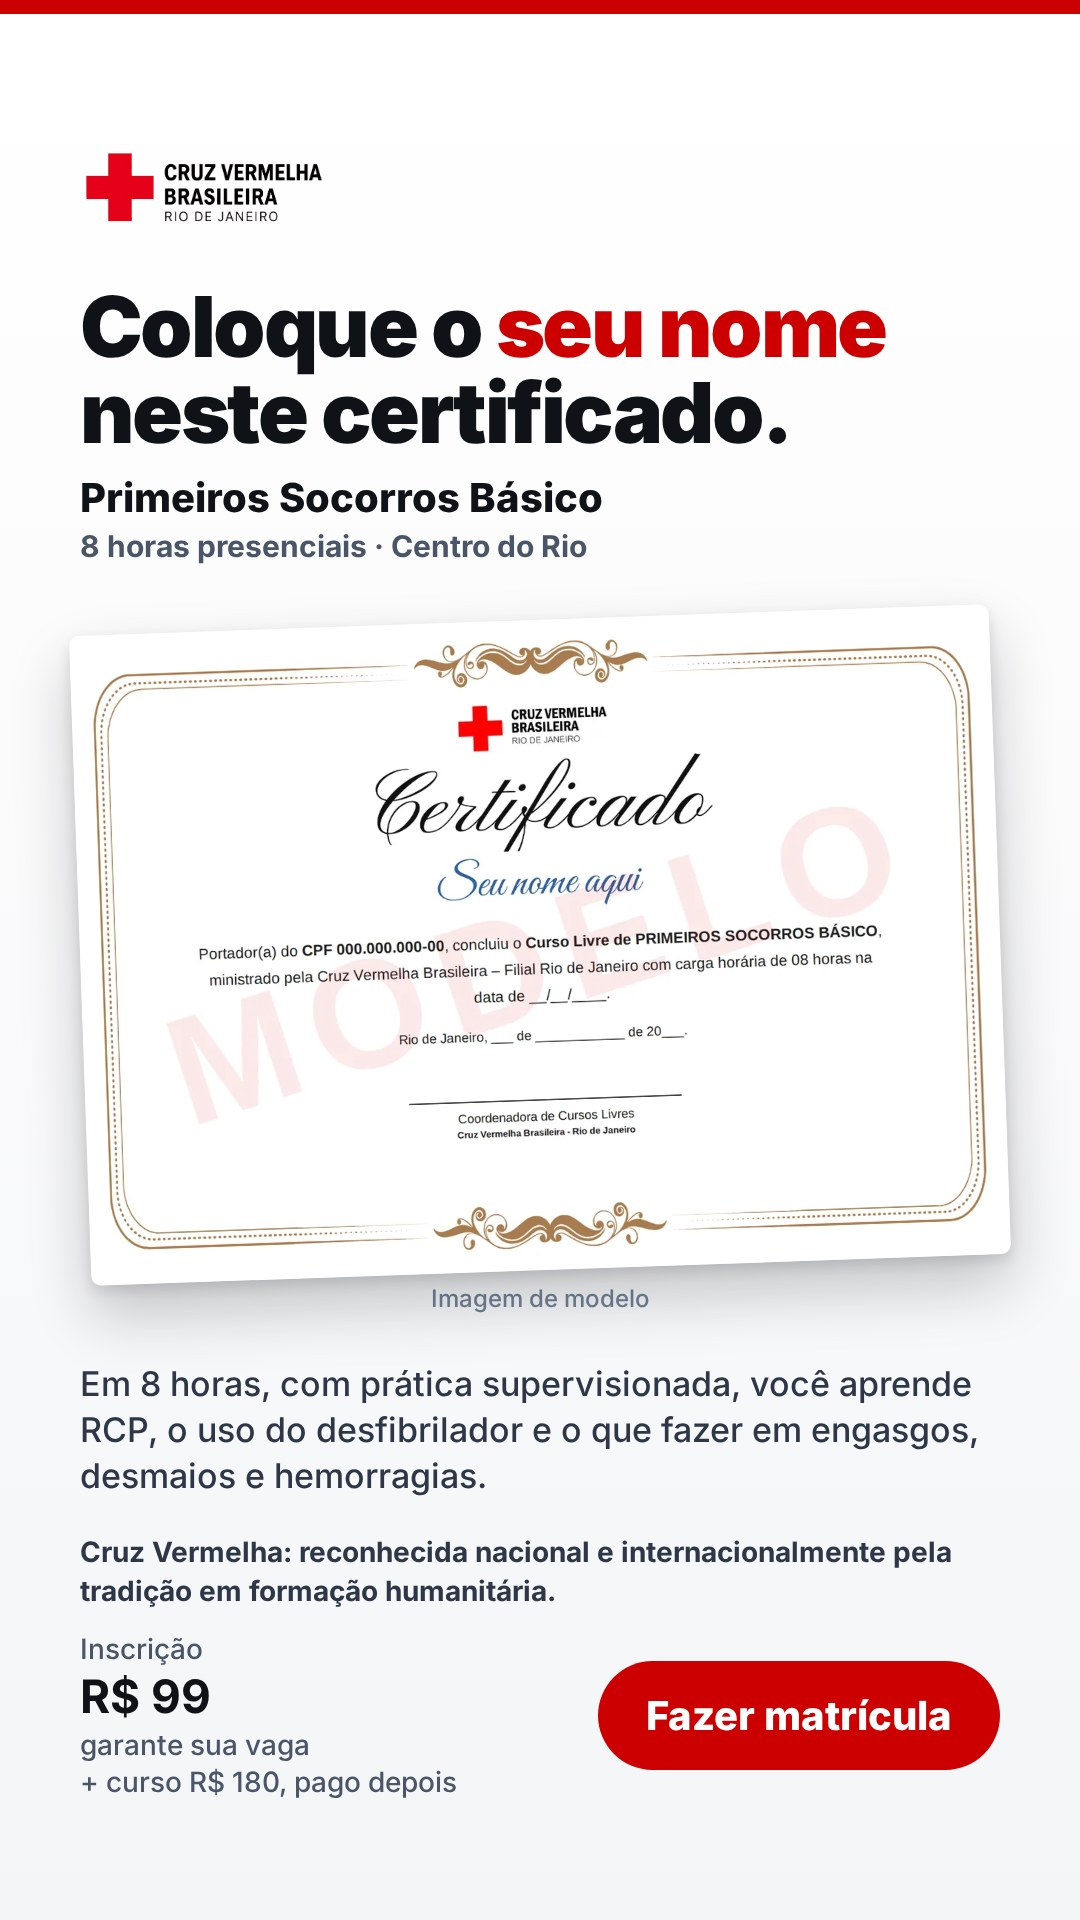
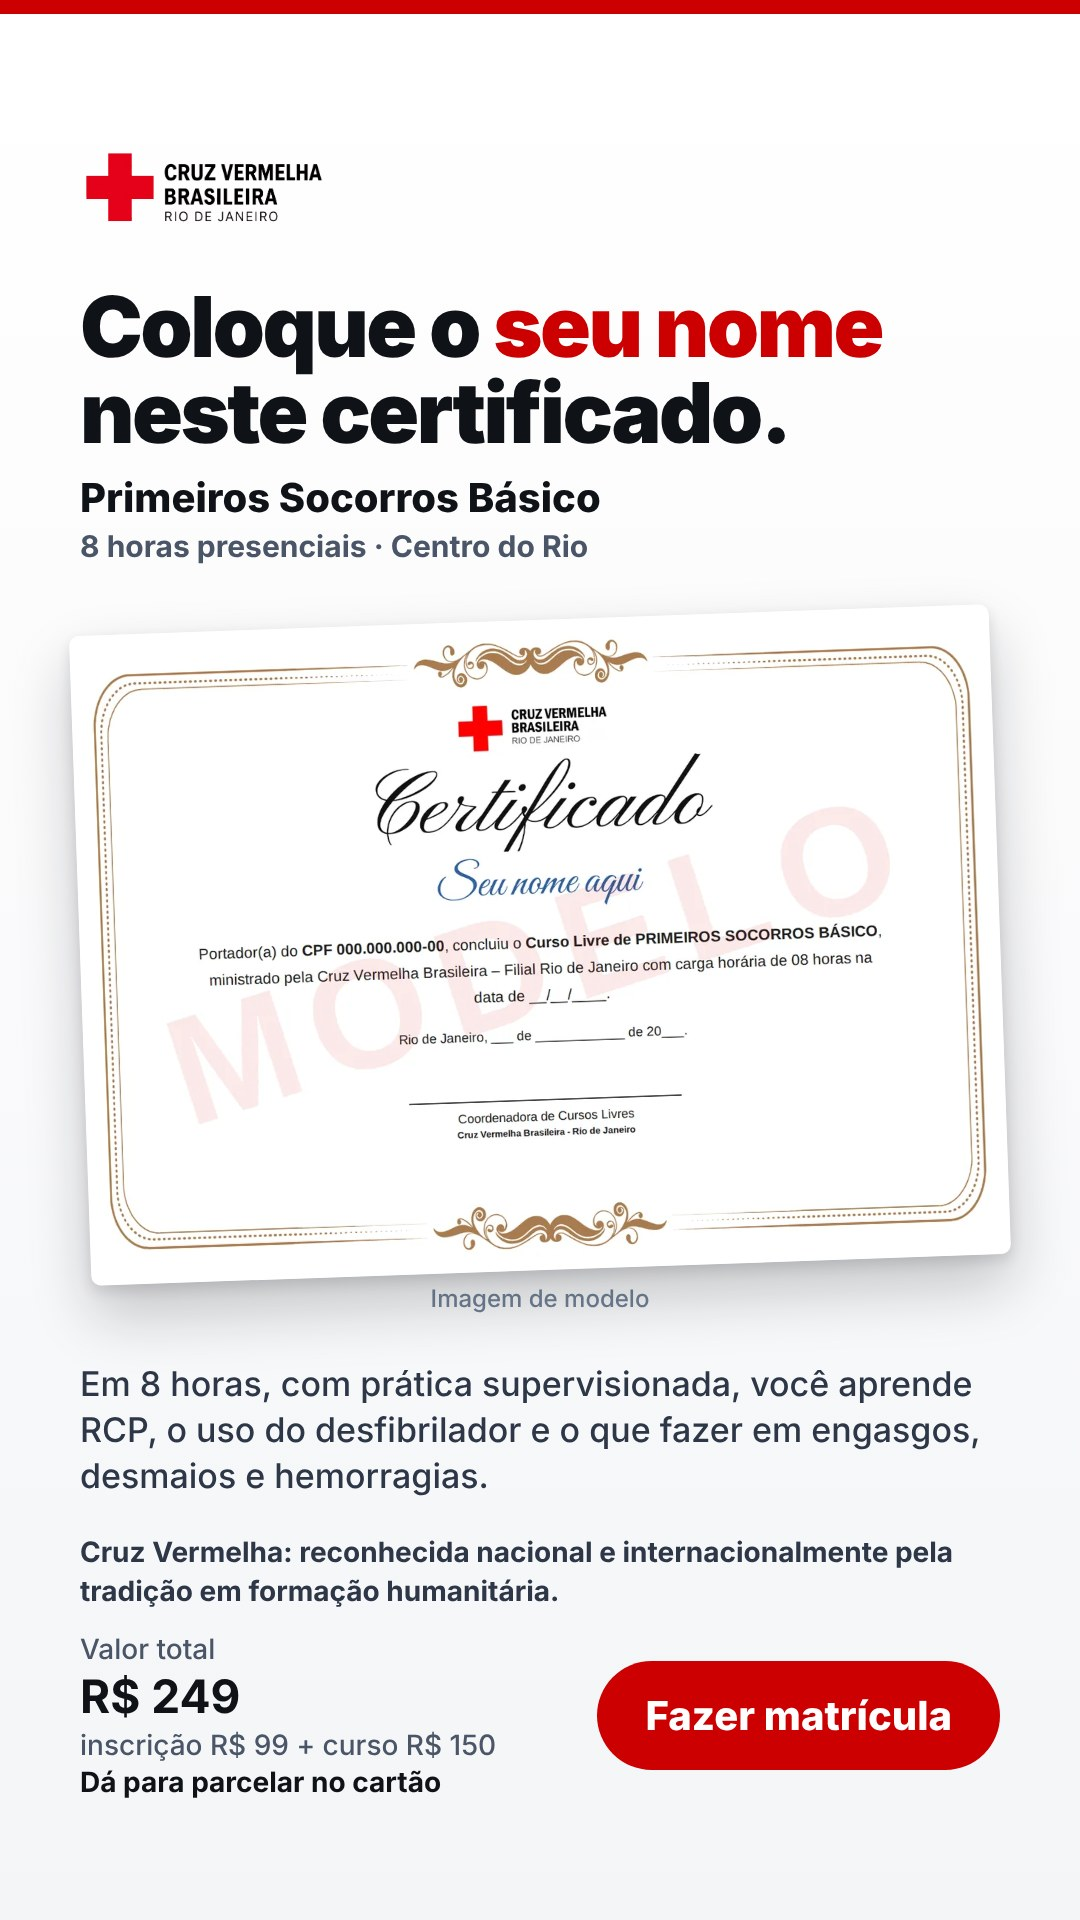
Criativos: valor total com parcelamento e marca oficial no uniforme
- Criativos do certificado: o bloco de preço mostra o total (R$ 249), a conta
  e "Dá para parcelar no cartão".
- Post de Curativos (28/11): linha do valor total com parcelamento na arte e
  na legenda; na foto, os emblemas redondos das camisas dão lugar à marca
  oficial (retocar_uniforme.py).

Claude-Session: https://claude.ai/code/session_018phLKcwd6cnmyNAojLSjcG

diff --git a/docs/criativos/feed-curativos-28-11/feed.html b/docs/criativos/feed-curativos-28-11/feed.html
@@ -11,19 +11,19 @@ body{font-family:Inter,Arial,sans-serif;background:#111}
 .foto::after{content:"";position:absolute;inset:0;background:linear-gradient(180deg,rgba(21,21,21,0) 42%,#151515 100%)}
 .logo{background:#fff;display:inline-block;border-radius:0 0 22px 0;position:absolute;top:0;left:0;z-index:3;padding:30px 48px 30px 64px}
 .logo img{display:block;height:76px}
-.txt{position:relative;z-index:2;padding:470px 64px 0}
+.txt{position:relative;z-index:2;padding:436px 64px 0}
 .tag{display:inline-block;background:var(--red);font:700 24px/1 Inter;letter-spacing:.32em;padding:.55em .8em .55em 1em;border-radius:6px;text-transform:uppercase}
 h1{font-family:"Barlow Condensed";font-weight:800;font-size:104px;line-height:.9;text-transform:uppercase;letter-spacing:-.005em;margin-top:22px}
 h1 span{display:block;color:var(--red)}
 .sub{font-size:32px;line-height:1.3;color:#e9e9e9;margin-top:22px;max-width:900px}
 .sub b{color:#fff}
-.det{list-style:none;display:grid;gap:26px;margin-top:44px}
+.det{list-style:none;display:grid;gap:18px;margin-top:34px}
 .det li{display:flex;align-items:center}
 .ic{background:var(--red);border-radius:10px;display:grid;place-items:center;flex:none;width:76px;height:76px;margin-right:24px}
 .ic svg{width:40px;height:40px;fill:none;stroke:#fff;stroke-width:2;stroke-linecap:round;stroke-linejoin:round}
 .det b{display:block;font-family:"Barlow Condensed";font-weight:700;text-transform:uppercase;line-height:1;font-size:46px}
 .det small{display:block;letter-spacing:.14em;text-transform:uppercase;color:#cfcfcf;font-weight:600;font-size:20px;margin-top:6px}
-.selo{position:absolute;right:64px;bottom:98px;z-index:3;background:#fff;color:var(--ink);border-radius:22px;padding:24px 30px;text-align:center}
+.selo{position:absolute;right:64px;bottom:64px;z-index:3;background:#fff;color:var(--ink);border-radius:22px;padding:24px 30px;text-align:center}
 .selo small{display:block;font-weight:700;font-size:19px;letter-spacing:.14em;text-transform:uppercase;color:#555}
 .selo b{display:block;font-family:"Barlow Condensed";font-weight:800;font-size:66px;line-height:1;text-transform:uppercase;margin-top:6px}
 .selo b i{font-style:normal;color:var(--red)}
@@ -41,6 +41,7 @@ h1 span{display:block;color:var(--red)}
       <li><span class="ic"><svg viewBox="0 0 24 24"><rect x="3" y="5" width="18" height="16" rx="2"/><path d="M3 10h18M8 3v4M16 3v4"/></svg></span><span><b>28 de novembro</b><small>Sábado · 9h às 17h</small></span></li>
       <li><span class="ic"><svg viewBox="0 0 24 24"><path d="M12 21s-7-6.2-7-11.5a7 7 0 0 1 14 0C19 14.8 12 21 12 21z"/><circle cx="12" cy="9.5" r="2.5"/></svg></span><span><b>Centro do Rio</b><small>Palácio da Cruz Vermelha</small></span></li>
       <li><span class="ic"><svg viewBox="0 0 24 24"><path d="M14 3H6a2 2 0 0 0-2 2v14a2 2 0 0 0 2 2h5M14 3l5 5v3M14 3v5h5M8 9h3M8 13h6"/><circle cx="17" cy="16" r="3"/><path d="m15.5 18.5-1 3.5 2.5-1.2 2.5 1.2-1-3.5"/></svg></span><span><b>Com certificado</b><small>8 horas de curso</small></span></li>
+      <li><span class="ic"><svg viewBox="0 0 24 24"><rect x="2.5" y="5" width="19" height="14" rx="2"/><path d="M2.5 10h19M6.5 15h4"/></svg></span><span><b>R$ 249 no total</b><small>Dá para parcelar no cartão</small></span></li>
     </ul>
   </div>
   <div class="selo"><small>Inscrições até</small><b>Sexta, <i>27/11</i></b><span>Link na bio</span></div>

diff --git a/docs/criativos/feed-curativos-28-11/retocar_uniforme.py b/docs/criativos/feed-curativos-28-11/retocar_uniforme.py
@@ -1,0 +1,67 @@
+"""Troca os emblemas redondos da foto do curso pela marca oficial (logo.png), na manga e no peito das camisas.
+Uso: python3 retocar_uniforme.py ../banners-turmas-nov-dez-2026/img/curativos.jpg img/logo.png img/curativos.jpg"""
+import sys
+import numpy as np
+from PIL import Image, ImageDraw, ImageFilter
+
+foto, logo_arq, saida = sys.argv[1:4]
+E = 2  # trabalha no dobro do tamanho, para a marca não virar borrão
+im = Image.open(foto).convert("RGB")
+im = im.resize((im.width * E, im.height * E), Image.LANCZOS)
+a = np.asarray(im).astype(np.float64)
+logo = Image.open(logo_arq).convert("RGBA")
+
+def apagar(cx, cy, r):
+    """Preenche o círculo com o tecido em volta (difusão a partir da borda)."""
+    cx, cy, r = cx * E, cy * E, r * E
+    m = 6 * E
+    x0, x1, y0, y1 = int(cx - r - m), int(cx + r + m), int(cy - r - m), int(cy + r + m)
+    reg = a[y0:y1, x0:x1].copy()
+    yy, xx = np.mgrid[y0:y1, x0:x1]
+    furo = (xx - cx) ** 2 + (yy - cy) ** 2 <= r ** 2
+    reg[furo] = reg[~furo].mean(axis=0)
+    for _ in range(4000):
+        viz = (np.roll(reg, 1, 0) + np.roll(reg, -1, 0) + np.roll(reg, 1, 1) + np.roll(reg, -1, 1)) / 4
+        reg[furo] = viz[furo]
+    # um pouco do grão da foto de volta, para o remendo não ficar liso demais
+    rng = np.random.default_rng(7)
+    reg[furo] += rng.normal(0, 1.2, reg[furo].shape)
+    a[y0:y1, x0:x1] = reg
+
+def aplicar(cx, cy, largura, angulo, desfoque, fundo_branco):
+    """Cola a marca centrada em (cx, cy): direto no tecido branco, ou num retângulo branco no tecido vermelho."""
+    global a
+    w = int(largura * E)
+    h = round(w * logo.height / logo.width)
+    marca = logo.resize((w, h), Image.LANCZOS)
+    if fundo_branco:
+        px, py = round(h * .28), round(h * .30)
+        peca = Image.new("RGBA", (w + 2 * px, h + 2 * py), (0, 0, 0, 0))
+        ImageDraw.Draw(peca).rounded_rectangle([0, 0, peca.width - 1, peca.height - 1], radius=round(h * .22), fill=(240, 237, 237, 255))
+        peca.alpha_composite(marca, (px, py))
+    else:
+        peca = marca
+    peca = peca.rotate(angulo, resample=Image.BICUBIC, expand=True)
+    if desfoque:
+        folga = int(desfoque * 4)
+        maior = Image.new("RGBA", (peca.width + 2 * folga, peca.height + 2 * folga), (0, 0, 0, 0))
+        maior.alpha_composite(peca, (folga, folga))
+        peca = maior.filter(ImageFilter.GaussianBlur(desfoque))
+    x0, y0 = round(cx * E - peca.width / 2), round(cy * E - peca.height / 2)
+    p = np.asarray(peca).astype(np.float64)
+    alfa = p[..., 3:4] / 255
+    base = a[y0:y0 + peca.height, x0:x0 + peca.width]
+    # a luz do tecido passa para a marca (multiplica pela claridade local), para ela seguir as dobras e a sombra
+    claro = base.max(axis=2, keepdims=True) / 255
+    sombra = np.clip(claro / max(np.percentile(claro, 90), 1e-6), .75, 1.0)
+    a[y0:y0 + peca.height, x0:x0 + peca.width] = base * (1 - alfa) + p[..., :3] * sombra * alfa
+
+# posições medidas na foto de 1000x667: (centro x, centro y, raio)
+apagar(83.5, 214, 34)     # manga da instrutora
+apagar(666, 235, 20)    # peito da aluna
+apagar(939, 244, 22)    # peito do aluno
+aplicar(103, 217, 84, -14, .6, False)
+aplicar(668, 236, 46, 0, 1.8, True)
+aplicar(940, 245, 50, 0, 1.9, True)
+
+Image.fromarray(np.clip(a, 0, 255).astype(np.uint8)).save(saida, "JPEG", quality=92, optimize=True)

diff --git a/scripts/gerar_criativos_certificado.py b/scripts/gerar_criativos_certificado.py
@@ -42,16 +42,21 @@ def b64(caminho: Path, tipo: str) -> str:
     return f"data:{tipo};base64,{base64.b64encode(caminho.read_bytes()).decode()}"
 
 
-def pagina(curso: dict, insc: str, formato: str) -> str:
+def pagina(curso: dict, insc_centavos: int, formato: str) -> str:
     largura, altura = FORMATOS[formato]
     stories = formato == "stories"
     s = curso["slug"]
     nome = NOME_CURTO.get(s, curso["nome"])
     promessa = COPY_CURSO[s]["promessa"]
     meta = f'{curso["carga_horaria"]} presenciais · Centro do Rio'
-    # O preço inteiro, como na página: a inscrição agora e o curso depois (nunca só os R$ 99).
+    # O preço inteiro, como na página (nunca só os R$ 99): o total em destaque, a conta embaixo e o parcelamento
+    # no cartão. O parcelamento tem juros (FAQ da página): nunca "sem juros" nem número de parcelas aqui.
     v = curso.get("valor_curso_centavos")
-    valor_curso = f"+ curso R$ {int(v) // 100}, pago depois" if v else "+ valor do curso, pago depois"
+    if v:
+        rotulo, total = "Valor total", f"R$ {(insc_centavos + int(v)) // 100}"
+        conta = f"inscrição R$ {insc_centavos // 100} + curso R$ {int(v) // 100}"
+    else:
+        rotulo, total, conta = "Inscrição", f"R$ {insc_centavos // 100}", "+ valor do curso"
     return f"""<!DOCTYPE html><html lang="pt-BR"><head><meta charset="utf-8">
 <link href="https://fonts.googleapis.com/css2?family=Inter:wght@500;700;800;900&display=block" rel="stylesheet">
 <style>
@@ -74,6 +79,7 @@ def pagina(curso: dict, insc: str, formato: str) -> str:
   .cta {{ background: #cc0000; color: #fff; font-weight: 800; font-size: {'40px' if stories else '28px'}; padding: {'30px 48px' if stories else '20px 34px'}; border-radius: 999px; white-space: nowrap; }}
   .preco {{ font-size: {'28px' if stories else '19px'}; color: #4a5568; line-height: 1.3; margin: 0; }}
   .preco b {{ display: block; color: #0f1318; font-size: {'46px' if stories else '32px'}; }}
+  .preco strong {{ color: #0f1318; font-weight: 700; }}
 </style></head><body><div class="c">
   <img class="logo" src="{b64(LOGO, 'image/png')}" alt="">
   <h1>Coloque o <em>seu nome</em> neste certificado.</h1>
@@ -84,7 +90,7 @@ def pagina(curso: dict, insc: str, formato: str) -> str:
   <p class="promessa">{html.escape(promessa)}</p>
   <p class="peso">{html.escape(PESO)}</p>
   <div class="rodape">
-    <p class="preco">Inscrição<b>{html.escape(insc)}</b>garante sua vaga<br>{html.escape(valor_curso)}</p>
+    <p class="preco">{rotulo}<b>{html.escape(total)}</b>{html.escape(conta)}<br><strong>Dá para parcelar no cartão</strong></p>
     <span class="cta">Fazer matrícula</span>
   </div>
 </div></body></html>"""
@@ -110,7 +116,7 @@ const [,, lista] = process.argv;
 def main() -> int:
     dados = json.loads(DADOS.read_text(encoding="utf-8"))
     cursos = {c["slug"]: c for c in dados["cursos"]}
-    insc = f'R$ {dados["inscricao_centavos"] // 100}'
+    insc = int(dados["inscricao_centavos"])
     SAIDA.mkdir(parents=True, exist_ok=True)
     with tempfile.TemporaryDirectory() as tmp:
         tmp = Path(tmp)

diff --git a/docs/criativos/feed-curativos-28-11/LEIAME.md b/docs/criativos/feed-curativos-28-11/LEIAME.md
@@ -2,11 +2,17 @@
 
 - `feed-curativos-1080x1350.png`: a arte pronta (4:5, o formato do feed). As margens de 64 px aguentam o corte 3:4 da grade do perfil.
 - `feed.html` é a fonte; `node render.js` (Playwright) regenera o PNG.
+- Foto: a do curso (`../banners-turmas-nov-dez-2026/img/curativos.jpg`), retocada por `retocar_uniforme.py`: os emblemas
+  redondos das três camisas (cruz dentro de um círculo, que não é a nossa marca) deram lugar à marca oficial do
+  `img/logo.png`. É retoque digital, não foto do uniforme real: havendo uma foto de turma com o uniforme, troque.
 - Mesmo desenho dos banners de `../banners-turmas-nov-dez-2026/`. No lugar do botão (o feed não tem link clicável)
   entrou o selo "Inscrições até sexta, 27/11 · link na bio".
 - Link para a bio: `https://cruzvermelhariodejaneiro.org/matricula-cursos-presenciais/?curso=curativos-e-tratamento-de-feridas`
 - Dados conferidos em 25/11/2026 no `cursos.json` e no `oferta.json` publicado (turma aberta, `lotada: false`,
   inscrições até 27/11 às 23h59). Se a turma lotar antes, não publique ou tire o post do ar.
+- **Parcelamento:** a arte e a legenda dizem "dá para parcelar no cartão". Em 25/11/2026 o checkout publicado ainda
+  não parcelava (`api/info.php` devolvia `"parcelas_max": 1` e `api/parcelas.php` só a opção de 1x): confira que o
+  parcelamento está ligado antes de publicar. O parcelamento tem juros (FAQ da página): nunca "sem juros".
 - Como nos banners, ficaram de fora "certificado internacional", "vagas limitadas" e "últimas vagas".
 
 ## Legenda
@@ -26,7 +32,7 @@ Em 8 horas de aula, com prática simulada, você vê:
 📅 Sábado, 28/11, das 9h às 17h
 📍 Palácio da Cruz Vermelha: Praça da Cruz Vermelha, 10, Centro do Rio
 🎓 Certificado da Cruz Vermelha Brasileira – Filial Rio de Janeiro (8 horas)
-💳 R$ 99 de inscrição, que reserva a sua vaga, + R$ 150 do curso (R$ 249 no total)
+💳 R$ 249 no total (R$ 99 de inscrição + R$ 150 do curso). Dá para parcelar no cartão, com juros: o valor de cada parcela aparece na hora da inscrição
 
 Para participar: ter 18 anos ou mais e conhecimentos básicos na área da saúde.
 
@@ -38,4 +44,4 @@ O curso é de aperfeiçoamento: não substitui a formação profissional nem amp
 
 ## Texto alternativo (acessibilidade)
 
-Instrutora da Cruz Vermelha, de luvas, faz um curativo enquanto dois alunos de camisa vermelha observam e anotam. Texto: Curso presencial de Curativos e Tratamento de Feridas. 28 de novembro, sábado, das 9h às 17h, no Palácio da Cruz Vermelha, Centro do Rio. Com certificado, 8 horas de curso. Inscrições até sexta, 27/11.
+Instrutora da Cruz Vermelha, de luvas, faz um curativo enquanto dois alunos de camisa vermelha observam e anotam. Texto: Curso presencial de Curativos e Tratamento de Feridas. 28 de novembro, sábado, das 9h às 17h, no Palácio da Cruz Vermelha, Centro do Rio. Com certificado, 8 horas de curso. R$ 249 no total, dá para parcelar no cartão. Inscrições até sexta, 27/11.

diff --git a/README.md b/README.md
@@ -1205,7 +1205,9 @@ Cruz Vermelha. **O PDF não entra no repositório nem no site.**
 - **Tela do PIX** (checkout e pendente, `static/checkout.js`): o certificado do curso abaixo do código.
 - **Criativos de remarketing** (`scripts/gerar_criativos_certificado.py` → `docs/criativos/`): feed 1080×1080 e
   stories 1080×1920 de Punção Venosa e Primeiros Socorros Básico, "Coloque o seu nome neste certificado.", com
-  "Imagem de modelo" e o preço inteiro (inscrição agora + curso depois, nunca só os R$ 99). Público sugerido: quem viu a página de matrícula ou iniciou o checkout nos últimos 14 dias e
+  "Imagem de modelo" e o preço inteiro (o total em destaque, a conta "inscrição R$ 99 + curso R$ 150" e "Dá para
+  parcelar no cartão"; nunca só os R$ 99, nunca "sem juros"). O anúncio só roda com o parcelamento ligado no checkout
+  (`parcelas_max` > 1 no `api/info.php`). Público sugerido: quem viu a página de matrícula ou iniciou o checkout nos últimos 14 dias e
   não comprou.
 
 **Revisão adversarial (três revisores, cada achado conferido):** além do que está acima, entraram "Inclui Lei Lucas."
